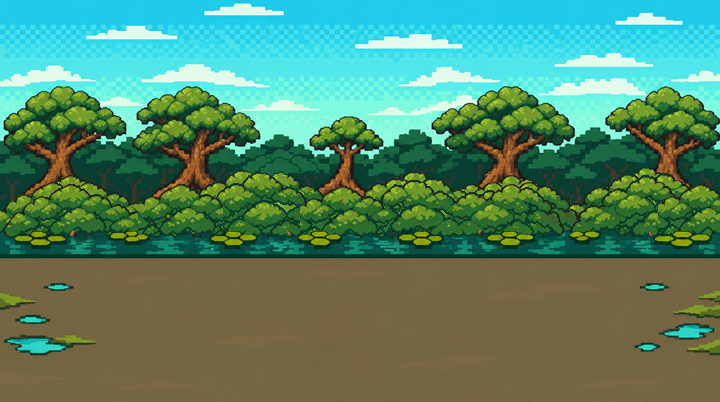
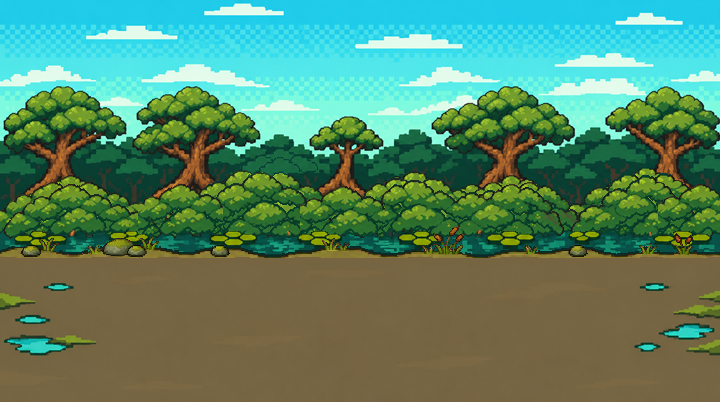
이미지: 늪 물가 경계와 늪 앞배경(낮·노을·밤) 반영

Changed region(s): [[0.0, 0.5672, 1.0, 0.6567]]

diff --git a/개발일지/2026-11-27/이미지.md b/개발일지/2026-11-27/이미지.md
@@ -8,3 +8,8 @@
 - 사용자 "경계선이 애매하다 그리고 앞배경도 필요". 아래 장식은 1장 초원 것을 같이 쓰고 있었음.
 - 시안: 물과 땅 사이를 울퉁불퉁한 진흙 둑 + 돌·풀·부들로(`img/codex/swampfg/bg_swamp_shore.png`), 늪 앞배경 720×80(이끼 바위·뿌리·부들·넓은 잎·버섯, `fg_swamp.png`). 비교 `compare.png`.
 - `img/p`는 아직 안 바꿈. 확인 뒤 노을·밤 버전 제작, 장별 앞배경 연결은 UI에 요청.
+
+## 늪 물가 경계 + 늪 앞배경 확정 ⭐
+- 사용자 "확정". `img/p/bg_swamp.png`, `bg_swamp_dusk.png`(같은 이름으로 교체, 물가 둑 추가), 새 파일 `fg_swamp.png`, `fg_swamp_dusk.png`, `fg_swamp_night.png`(720×80).
+- 노을은 늪 노을 배경과 같은 색 변환, 밤은 노을 장식 + 게임 밤색. 낮·노을·밤 비교 `img/codex/swampfg/3times.png`.
+- UI에 2장에서 앞배경을 늪 것으로 바꿔 달라고 요청. 게임 화면 확인은 아직.
